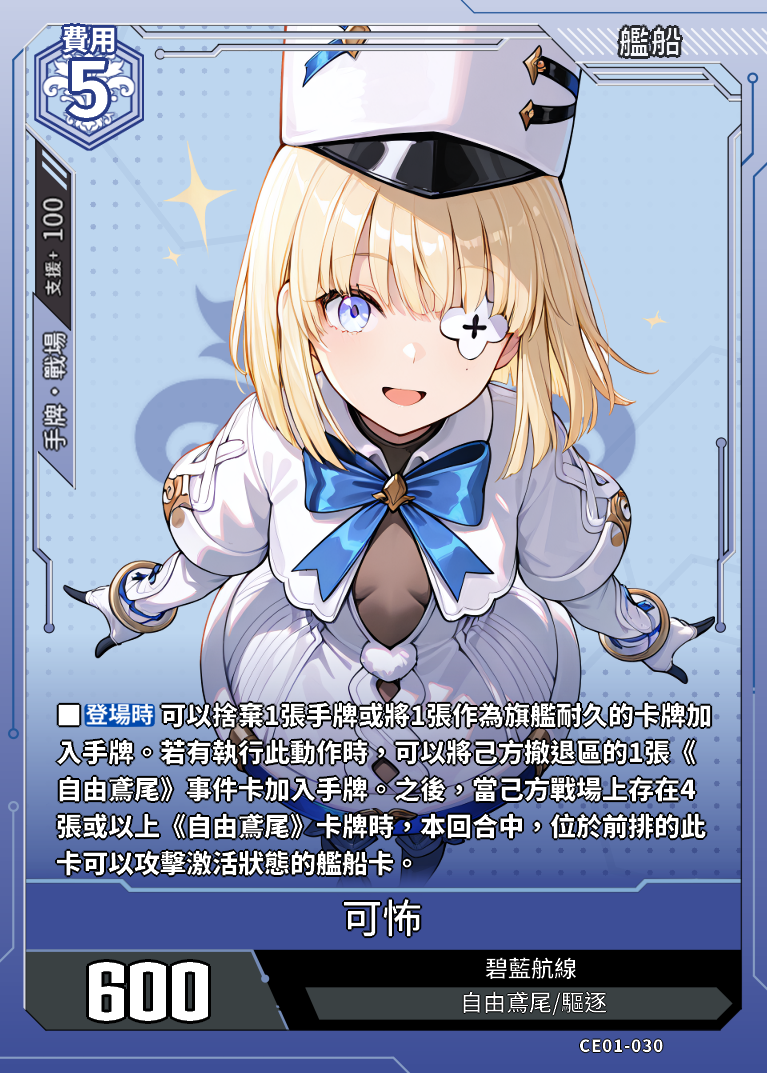
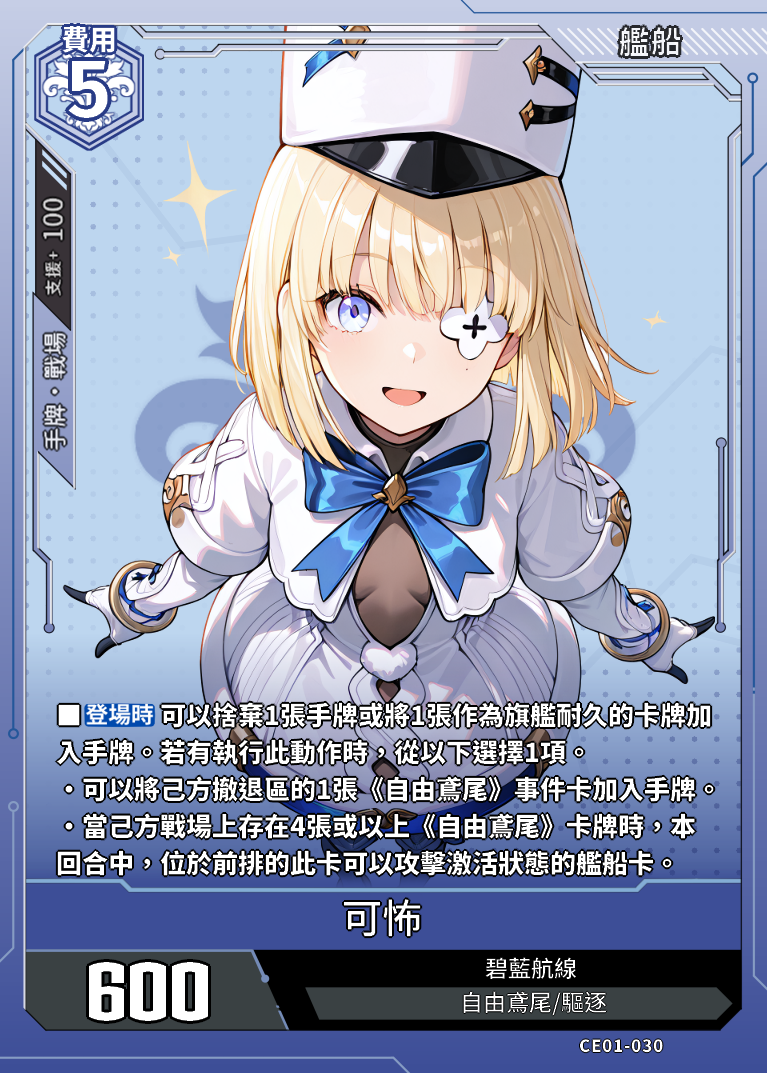
修改可怖效果

Changed region(s): [[0.06, 0.6766, 0.9296, 0.8304]]

diff --git a/data.js b/data.js
@@ -22417,7 +22417,7 @@ const cards = [
             "支援範圍": "手牌·戰場",
             "支援值": "100"
         },
-        "card_effect": "■【登場時】可以捨棄1張手牌或將1張作為旗艦耐久的卡牌加入手牌。若有執行此動作時，可以將己方撤退區的1張《自由鳶尾》事件卡加入手牌。之後，當己方戰場上存在4張或以上《自由鳶尾》卡牌時，本回合中，位於前排的此卡可以攻擊激活狀態的艦船卡。",
+        "card_effect": "■【登場時】可以捨棄1張手牌或將1張作為旗艦耐久的卡牌加入手牌。若有執行此動作時，從以下選擇1項。・可以將己方撤退區的1張《自由鳶尾》事件卡加入手牌。・當己方戰場上存在4張或以上《自由鳶尾》卡牌時，本回合中，位於前排的此卡可以攻擊激活狀態的艦船卡。",
         "acquisition_method": "CE01"
     },
 	{
